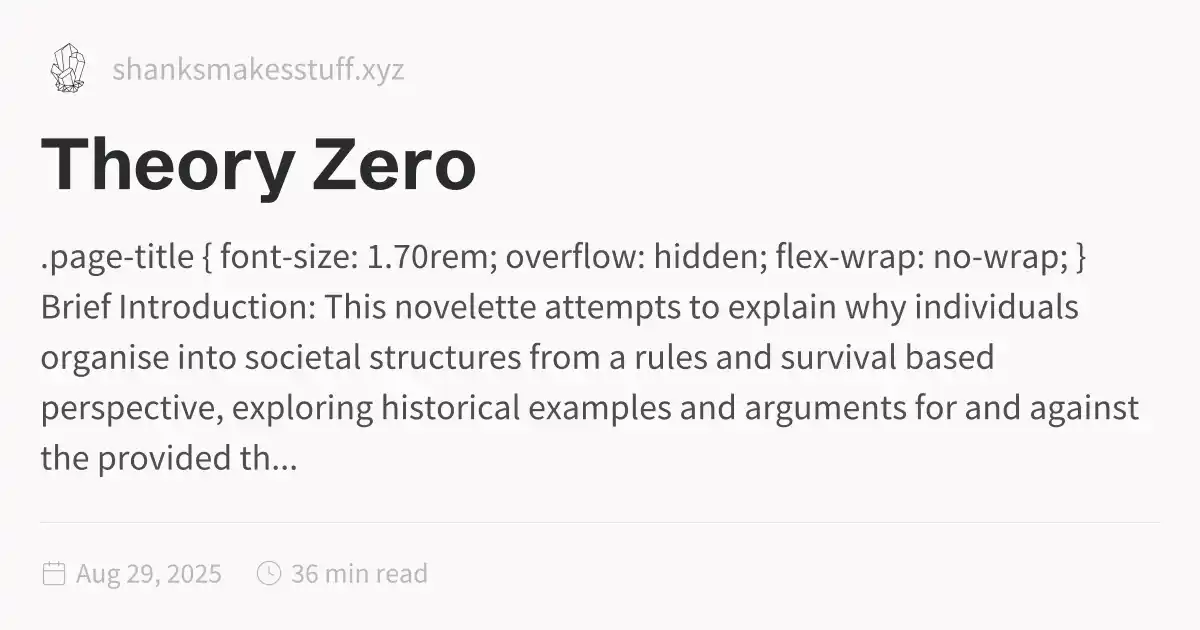
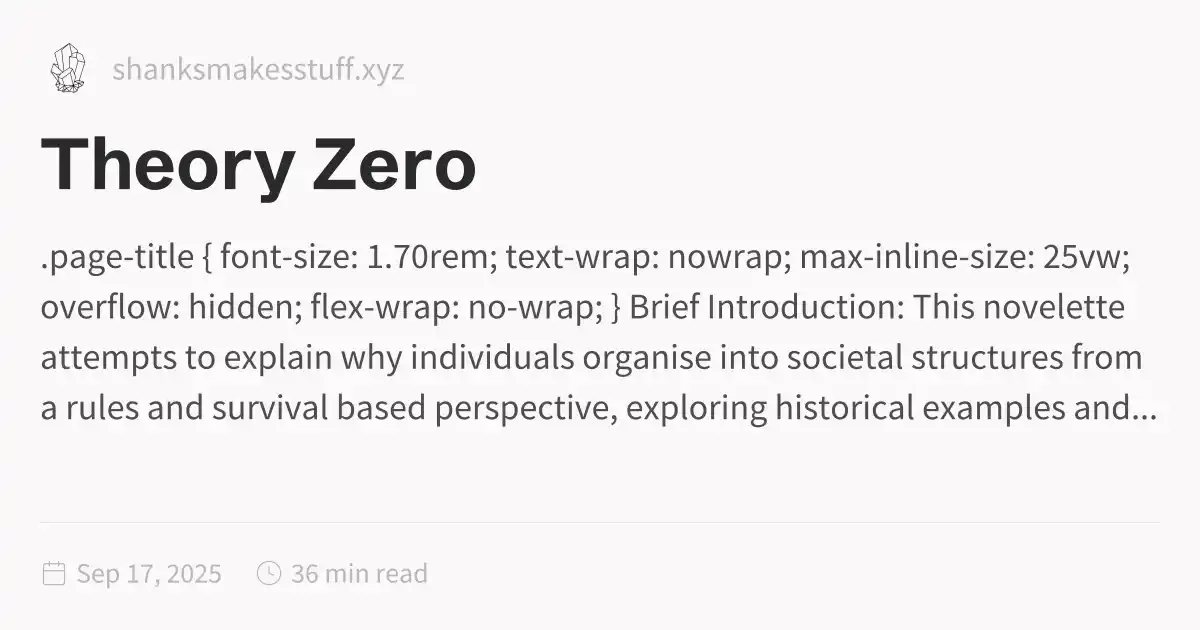
2025-09-17_2358

diff --git a/Theory-Zero.html b/Theory-Zero.html
@@ -1,5 +1,5 @@
 <!DOCTYPE html>
-<html lang="en"><head><title>Theory Zero</title><meta charset="utf-8"/><link rel="preconnect" href="https://fonts.googleapis.com"/><link rel="preconnect" href="https://fonts.gstatic.com"/><link rel="stylesheet" href="https://fonts.googleapis.com/css2?family=Schibsted Grotesk:wght@400;700&amp;family=Source Sans Pro:ital,wght@0,400;0,600;1,400;1,600&amp;family=IBM Plex Mono:wght@400;600&amp;display=swap"/><link rel="preconnect" href="https://cdnjs.cloudflare.com" crossorigin="anonymous"/><meta name="viewport" content="width=device-width, initial-scale=1.0"/><meta name="og:site_name" content="ShanksMakesStuff"/><meta property="og:title" content="Theory Zero"/><meta property="og:type" content="website"/><meta name="twitter:card" content="summary_large_image"/><meta name="twitter:title" content="Theory Zero"/><meta name="twitter:description" content=".page-title { font-size: 1.70rem; overflow: hidden; flex-wrap: no-wrap; } Brief Introduction: This novelette attempts to explain why individuals organise into societal structures from a rules and survival based perspective, exploring historical examples and arguments for and against the provided th..."/><meta property="og:description" content=".page-title { font-size: 1.70rem; overflow: hidden; flex-wrap: no-wrap; } Brief Introduction: This novelette attempts to explain why individuals organise into societal structures from a rules and survival based perspective, exploring historical examples and arguments for and against the provided th..."/><meta property="og:image:alt" content=".page-title { font-size: 1.70rem; overflow: hidden; flex-wrap: no-wrap; } Brief Introduction: This novelette attempts to explain why individuals organise into societal structures from a rules and survival based perspective, exploring historical examples and arguments for and against the provided th..."/><meta property="twitter:domain" content="shanksmakesstuff.xyz"/><meta property="og:url" content="https://shanksmakesstuff.xyz/Theory-Zero"/><meta property="twitter:url" content="https://shanksmakesstuff.xyz/Theory-Zero"/><link rel="icon" href="./static/icon.png"/><meta name="description" content=".page-title { font-size: 1.70rem; overflow: hidden; flex-wrap: no-wrap; } Brief Introduction: This novelette attempts to explain why individuals organise into societal structures from a rules and survival based perspective, exploring historical examples and arguments for and against the provided th..."/><meta name="generator" content="Quartz"/><link href="./index.css" rel="stylesheet" type="text/css" spa-preserve/><style>.expand-button {
+<html lang="en"><head><title>Theory Zero</title><meta charset="utf-8"/><link rel="preconnect" href="https://fonts.googleapis.com"/><link rel="preconnect" href="https://fonts.gstatic.com"/><link rel="stylesheet" href="https://fonts.googleapis.com/css2?family=Schibsted Grotesk:wght@400;700&amp;family=Source Sans Pro:ital,wght@0,400;0,600;1,400;1,600&amp;family=IBM Plex Mono:wght@400;600&amp;display=swap"/><link rel="preconnect" href="https://cdnjs.cloudflare.com" crossorigin="anonymous"/><meta name="viewport" content="width=device-width, initial-scale=1.0"/><meta name="og:site_name" content="ShanksMakesStuff"/><meta property="og:title" content="Theory Zero"/><meta property="og:type" content="website"/><meta name="twitter:card" content="summary_large_image"/><meta name="twitter:title" content="Theory Zero"/><meta name="twitter:description" content=".page-title { font-size: 1.70rem; text-wrap: nowrap; max-inline-size: 25vw; overflow: hidden; flex-wrap: no-wrap; } Brief Introduction: This novelette attempts to explain why individuals organise into societal structures from a rules and survival based perspective, exploring historical examples and..."/><meta property="og:description" content=".page-title { font-size: 1.70rem; text-wrap: nowrap; max-inline-size: 25vw; overflow: hidden; flex-wrap: no-wrap; } Brief Introduction: This novelette attempts to explain why individuals organise into societal structures from a rules and survival based perspective, exploring historical examples and..."/><meta property="og:image:alt" content=".page-title { font-size: 1.70rem; text-wrap: nowrap; max-inline-size: 25vw; overflow: hidden; flex-wrap: no-wrap; } Brief Introduction: This novelette attempts to explain why individuals organise into societal structures from a rules and survival based perspective, exploring historical examples and..."/><meta property="twitter:domain" content="shanksmakesstuff.xyz"/><meta property="og:url" content="https://shanksmakesstuff.xyz/Theory-Zero"/><meta property="twitter:url" content="https://shanksmakesstuff.xyz/Theory-Zero"/><link rel="icon" href="./static/icon.png"/><meta name="description" content=".page-title { font-size: 1.70rem; text-wrap: nowrap; max-inline-size: 25vw; overflow: hidden; flex-wrap: no-wrap; } Brief Introduction: This novelette attempts to explain why individuals organise into societal structures from a rules and survival based perspective, exploring historical examples and..."/><meta name="generator" content="Quartz"/><link href="./index.css" rel="stylesheet" type="text/css" spa-preserve/><style>.expand-button {
   position: absolute;
   display: flex;
   float: right;
@@ -116,10 +116,12 @@ pre:hover > .expand-button {
   padding: 0 12px;
   font-size: 14px;
 }
[2 lines of base64/hex data omitted]
 	<style> 
 		.page-title { 
 			font-size: 1.70rem; 
+			text-wrap: nowrap; 
+			max-inline-size: 25vw; 
 			 overflow: hidden; 
 			 flex-wrap: no-wrap; 
 		}
